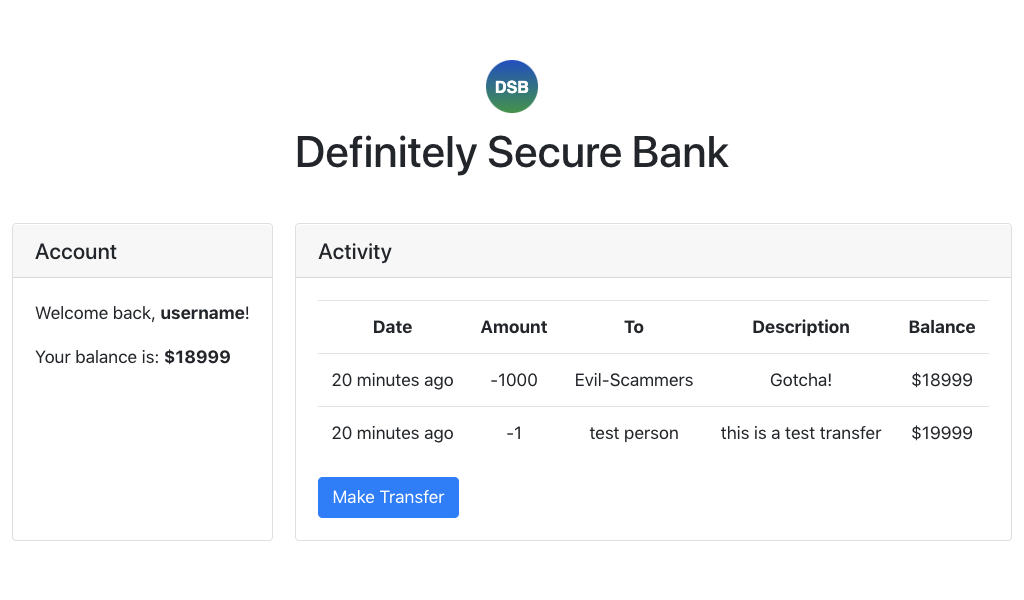
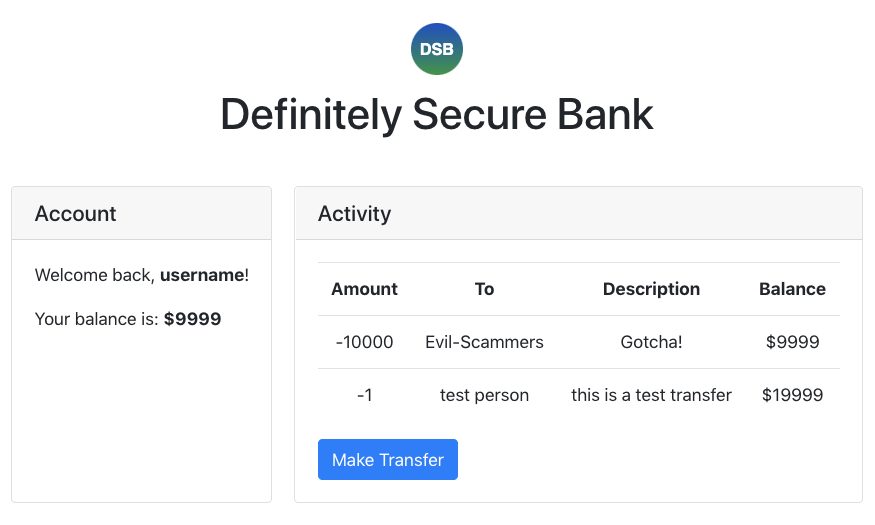
Edit CSRF post

diff --git a/content/posts/2020-04-10-csrf-post.md b/content/posts/2020-04-10-csrf-post.md
@@ -19,7 +19,7 @@ next: "/blog/properly-size-images/"
 
 Looking for an introduction to **Cross-Site Request Forgery** (CSRF)?
 
-Well, this post won't be like the others - instead of _telling_ you what it is, I'm going to **_show_** you... you'll see. Ready?
+This post will be a little different - instead of telling you what it is, I'm going to **_show_** you. Ready?
 
 ## Setting the Scene
 
@@ -35,9 +35,9 @@ Once you've logged in, you should see a landing page that looks something like t
 
 ![](./media-link/csrf-post/dsb_1.png)
 
-Nice! You've got $20,000 saved up! It'd be a shame if someone stole it...
+Nice! You've got $20,000 saved up! _It'd be a shame if someone stole it..._
 
-Notice also the "**Make Transfer**" button. That's a nice feature the Definitely Secure Bank website offers - you you can send money online with just one click! If you want to give it a go, try sending a dollar to test and see what happens:
+Notice also the "**Make Transfer**" button. That's a nice feature the Definitely Secure Bank website offers - you you can send money online with just one click! If you want to give it a go, try sending a dollar to see what happens:
 
 ![](./media-link/csrf-post/dsb_2.png)
 
@@ -51,17 +51,15 @@ Notice also the "**Make Transfer**" button. That's a nice feature the Definitely
   <csrf-post-button post-click-children="You claimed your free $100!">Click Here to get your free $100</csrf-post-button>
 </div>
 
-> Assuming that button worked, you should've just seen an alert saying you'd receive your $100 gift card soon.
+> Yes, I actually want you to click this button. Do it for the purposes of the demo.
 
-<span class="emph-special">Nice! That was an easy $100</span>, you think while mentally patting yourself on the back.
-
-Little do you know, there's no \$100 gift card (what?!?!) - in fact, **you've just lost $1,000.** Don't believe me? Go check your [Definitely Secure Bank](https://dsb.victorzhou.com/) tab (the one I told you to keep open for this post). It should look something like this:
+Little do you know, there's no \$100 gift card (what?!?!) - in fact, **you've just lost $10,000.** Don't believe me? Go check your [Definitely Secure Bank](https://dsb.victorzhou.com/) tab (the one I told you to keep open for this post). It should look something like this:
 
 ![](./media-link/csrf-post/dsb_3.png)
 
 <span class="emph-special">No!!!!!!!!</span>, you scream (silently in your head). <span class="emph-special">Impossible! How could this happen??</span>
 
-We'll get to that in a second. First, let's take a step back: **that was a CSRF attack**. In short, CSRF is a web security exploit where an attacker induces a victim to **perform an action they didn't mean to.** In this case, the attacker tricked you into unintentionally transferring them money.
+We'll get to that in a second. First, let's take a step back: **that was a CSRF attack**. In short, Cross-Site Request Forgery is a web security exploit where an attacker induces a victim to **perform an action they didn't mean to.** In this case, the attacker tricked you into unintentionally transferring them money.
 
 ## How It Happened
 
@@ -71,7 +69,7 @@ You might be thinking, <span class="emph-special">Wait, what? 🍪🍪🍪 Cooki
 
 ### A crash course on [web] cookies
 
-> Feel free to skip this part if you don't need a refresher on what web cookies are.
+> Feel free to skip this part if you don't need a refresher.
 
 Cookies are data sent from a web server that gets **stored by the user's browser** and subsequently **included on future requests** to that server. For example, when logging into a site, something like this happens:
 
@@ -88,7 +86,7 @@ This is why you can login to Facebook, close it, re-open it later, and still be 
 
 Okay, so we've established that your session cookie was set because you'd already logged in. Let's get to the juicy part.
 
-Here's the Javascript that was run when you clicked that button:
+Here's the Javascript that ran when you clicked that button:
 
 ```js
 const body = new URLSearchParams('amount=1000&description=Gotcha!&to=Evil-Scammers');
@@ -111,7 +109,7 @@ This sends an [HTTP POST](https://developer.mozilla.org/en-US/docs/Web/HTTP/Meth
 
 Coincidentally, that happens to be exactly how the DSB website's nifty "Make Transfer" feature works! You can [see the code the DSB website runs](https://github.com/vzhou842/definitely-secure-bank/blob/master/src/Home.js#L26-L43) when you click "Submit Transfer" and compare for yourself.
 
-But how did this code manage to steal *your* money while including neither your username nor password? **Because you're logged in.** Browsers can send cookies to one origin (the DSB site) _even when the request originates from a different origin_ (the attacker's site).
+But how did this code manage to steal *your* money while including neither your username nor password? **Because you're logged in.** Browsers can send cookies to one origin (the DSB site) _even when the request originates from a different origin_ (the attacker's site they tricked you into visiting).
 
 A recap of what happened, in order:
 
@@ -126,7 +124,7 @@ There it is. **C**ross-**S**ite **R**equest **F**orgery.
 
 A common misconception is that Cross-Origin Resource Sharing (CORS) is a CSRF prevention mechanism. Let's clarify a few things here.
 
-First: **CORS _relaxes_ the [Same-Origin Policy](https://developer.mozilla.org/en-US/docs/Web/Security/Same-origin_policy) (SOP)**, a critical security measure that prevents scripts on one site (e.g. the bad guy's site) from accessing sensitive data on another site (e.g. the Definitely Secure Bank portal). If something _was_ protecting you from CSRF, it would be the SOP.
+First: **CORS _relaxes_ the [Same-Origin Policy](https://developer.mozilla.org/en-US/docs/Web/Security/Same-origin_policy) (SOP)**, a critical security measure that prevents scripts on one site (e.g. the attacker's site) from accessing sensitive data on another site (e.g. the Definitely Secure Bank portal). If something _was_ protecting you from CSRF, it would be the SOP.
 
 However, **the SOP blocks cross-origin reads** but **doesn't block writes**. That means our attacker's cross-origin `POST` request to make a DSB transfer will be allowed to go through, but the attacker will be _blocked from reading the response_, which doesn't matter! As long as the `POST` request to make the transfer goes through, the damage is done.
 
